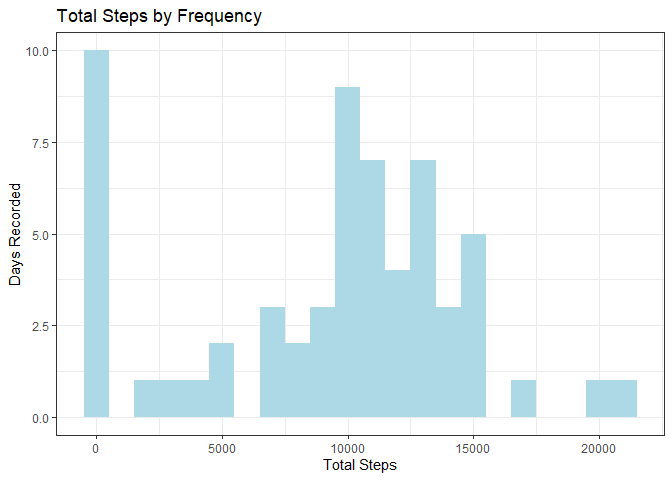
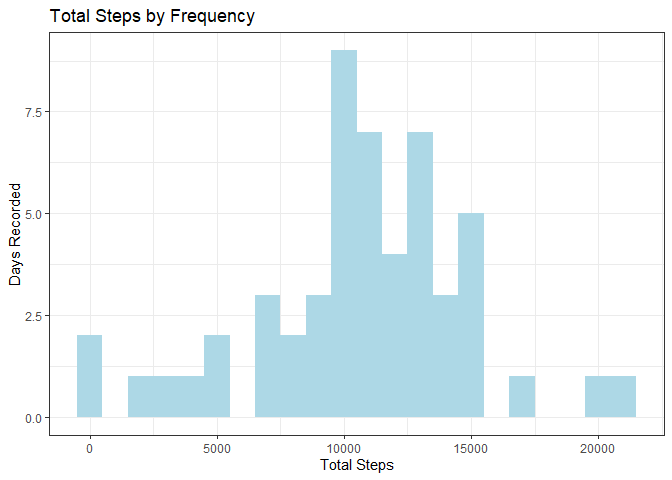
5th commit

diff --git a/PA1_template.html b/PA1_template.html
@@ -386,12 +386,12 @@ dfGrouped &lt;- group_by(df, date)</code></pre>
 <div id="calculate-the-total-number-of-steps-taken-per-day" class="section level3">
 <h3>1. Calculate the total number of steps taken per day</h3>
 <pre class="r"><code>### Create summary dataset
-dfSummary &lt;- summarize(dfGrouped, total.steps = sum(steps, na.rm = TRUE))
+dfSummary &lt;- summarize(dfGrouped, total.steps = sum(steps))
 head(dfSummary)</code></pre>
 <pre><code>## # A tibble: 6 x 2
 ##   date       total.steps
 ##   &lt;fct&gt;            &lt;int&gt;
-## 1 2012-10-01           0
+## 1 2012-10-01          NA
 ## 2 2012-10-02         126
 ## 3 2012-10-03       11352
 ## 4 2012-10-04       12116
@@ -406,7 +406,7 @@ head(dfSummary)</code></pre>
         labs(x = &quot;Total Steps&quot;, y = &quot;Days Recorded&quot;, title = &quot;Total Steps by Frequency&quot;) + 
         theme_bw()
 print(histSteps)</code></pre>
[2 lines of base64/hex data omitted]
 <p>The first bin (0 to 1000 steps) has the highest frequency of total steps.</p>
 </div>
 <div id="calculate-and-report-the-mean-and-median-of-the-total-number-of-steps-taken-per-day" class="section level3">
@@ -415,10 +415,10 @@ print(histSteps)</code></pre>
 meanmed &lt;- summarize(dfSummary, mean = mean(total.steps, na.rm = TRUE), median = median(total.steps, na.rm = TRUE))
 print(meanmed)</code></pre>
 <pre><code>## # A tibble: 1 x 2
-##    mean median
-##   &lt;dbl&gt;  &lt;int&gt;
-## 1 9354.  10395</code></pre>
-<p>The mean number of steps is 9354. The median is 10395</p>
+##     mean median
+##    &lt;dbl&gt;  &lt;int&gt;
+## 1 10766.  10765</code></pre>
+<p>The mean number of steps is 10766. The median is 10765.</p>
 </div>
 </div>
 <div id="what-is-the-average-daily-activity-pattern" class="section level2">
@@ -461,8 +461,7 @@ dfSummary2$interval[dfSummary2$mean == max(dfSummary2$mean)]</code></pre>
 <div id="create-a-new-dataset-that-is-equal-to-the-original-dataset-but-with-the-missing-data-filled-in." class="section level3">
 <h3>3. Create a new dataset that is equal to the original dataset but with the missing data filled in.</h3>
 <pre class="r"><code>### Imputing data with median of interval
-dfImputed &lt;- mutate(dfGrouped2, steps = replace(steps, is.na(steps), median(steps, 
-        na.rm = TRUE)))
+dfImputed &lt;- mutate(dfGrouped2, steps = replace(steps, is.na(steps), median(steps, na.rm = TRUE)))
 dfImputedSum &lt;- dfImputed %&gt;% ungroup() %&gt;% group_by(date) %&gt;% summarize(total.steps = 
         sum(steps, na.rm = TRUE))
 head(dfImputedSum)</code></pre>
@@ -495,11 +494,11 @@ meanmedImp &lt;- summarize(ungroup(dfImputedSum), mean = mean(total.steps, na.rm
 meanmedOvr &lt;- bind_cols(Type = c(&quot;As-is&quot;, &quot;Imputed&quot;), bind_rows(meanmed, meanmedImp))
 print(meanmedOvr)</code></pre>
 <pre><code>## # A tibble: 2 x 3
-##   Type     mean median
-##   &lt;chr&gt;   &lt;dbl&gt;  &lt;int&gt;
-## 1 As-is   9354.  10395
-## 2 Imputed 9504.  10395</code></pre>
-<p>Yes, substituting missing values with the median yields a new mean of 9504. Median stays the same.</p>
+##   Type      mean median
+##   &lt;chr&gt;    &lt;dbl&gt;  &lt;int&gt;
+## 1 As-is   10766.  10765
+## 2 Imputed  9504.  10395</code></pre>
+<p>Yes, substituting missing values with the median yields a new mean of 9504. Median goes down to 10395.</p>
 </div>
 </div>
 <div id="are-there-differences-in-activity-patterns-between-weekdays-and-weekends" class="section level2">

diff --git a/PA1_template.md b/PA1_template.md
@@ -29,7 +29,7 @@ dfGrouped <- group_by(df, date)
 
 ```r
 ### Create summary dataset
-dfSummary <- summarize(dfGrouped, total.steps = sum(steps, na.rm = TRUE))
+dfSummary <- summarize(dfGrouped, total.steps = sum(steps))
 head(dfSummary)
 ```
 
@@ -37,7 +37,7 @@ head(dfSummary)
 ## # A tibble: 6 x 2
 ##   date       total.steps
 ##   <fct>            <int>
-## 1 2012-10-01           0
+## 1 2012-10-01          NA
 ## 2 2012-10-02         126
 ## 3 2012-10-03       11352
 ## 4 2012-10-04       12116
@@ -71,12 +71,12 @@ print(meanmed)
 
 ```
 ## # A tibble: 1 x 2
-##    mean median
-##   <dbl>  <int>
-## 1 9354.  10395
+##     mean median
+##    <dbl>  <int>
+## 1 10766.  10765
 ```
 
-The mean number of steps is 9354. The median is 10395
+The mean number of steps is 10766. The median is 10765.
 
 ## What is the average daily activity pattern?  
 ### 1. Make a time series plot of the 5-minute interval (x-axis) and the average number of steps taken, averaged across all days (y-axis)
@@ -136,8 +136,7 @@ The strategy I've chosen is to impute the data with the median of each interval.
 
 ```r
 ### Imputing data with median of interval
-dfImputed <- mutate(dfGrouped2, steps = replace(steps, is.na(steps), median(steps, 
-        na.rm = TRUE)))
+dfImputed <- mutate(dfGrouped2, steps = replace(steps, is.na(steps), median(steps, na.rm = TRUE)))
 dfImputedSum <- dfImputed %>% ungroup() %>% group_by(date) %>% summarize(total.steps = 
         sum(steps, na.rm = TRUE))
 head(dfImputedSum)
@@ -186,13 +185,13 @@ print(meanmedOvr)
 
 ```
 ## # A tibble: 2 x 3
-##   Type     mean median
-##   <chr>   <dbl>  <int>
-## 1 As-is   9354.  10395
-## 2 Imputed 9504.  10395
+##   Type      mean median
+##   <chr>    <dbl>  <int>
+## 1 As-is   10766.  10765
+## 2 Imputed  9504.  10395
 ```
 
-Yes, substituting missing values with the median yields a new mean of 9504. Median stays the same.
+Yes, substituting missing values with the median yields a new mean of 9504. Median goes down to 10395.
 
 ## Are there differences in activity patterns between weekdays and weekends?  
 
